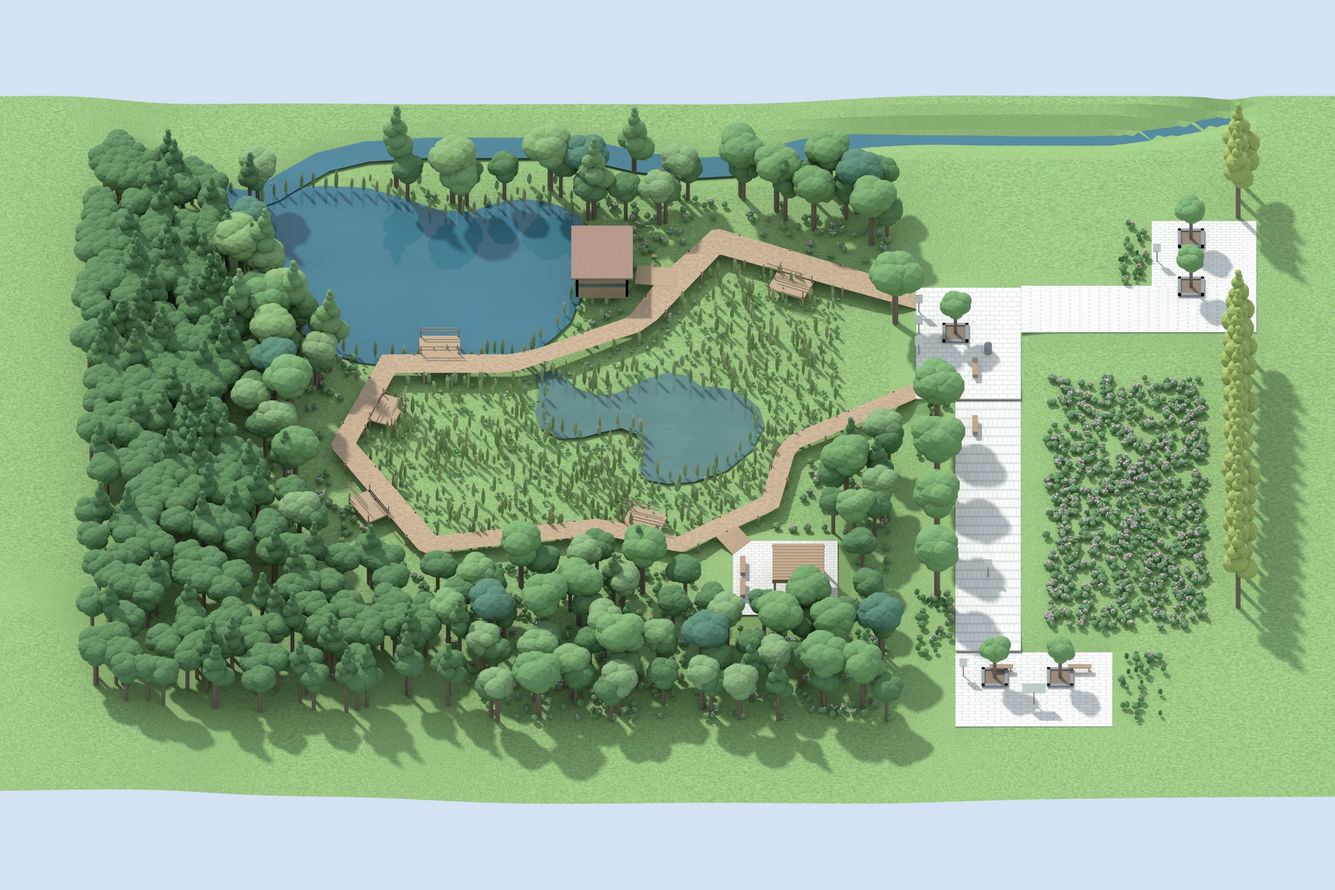
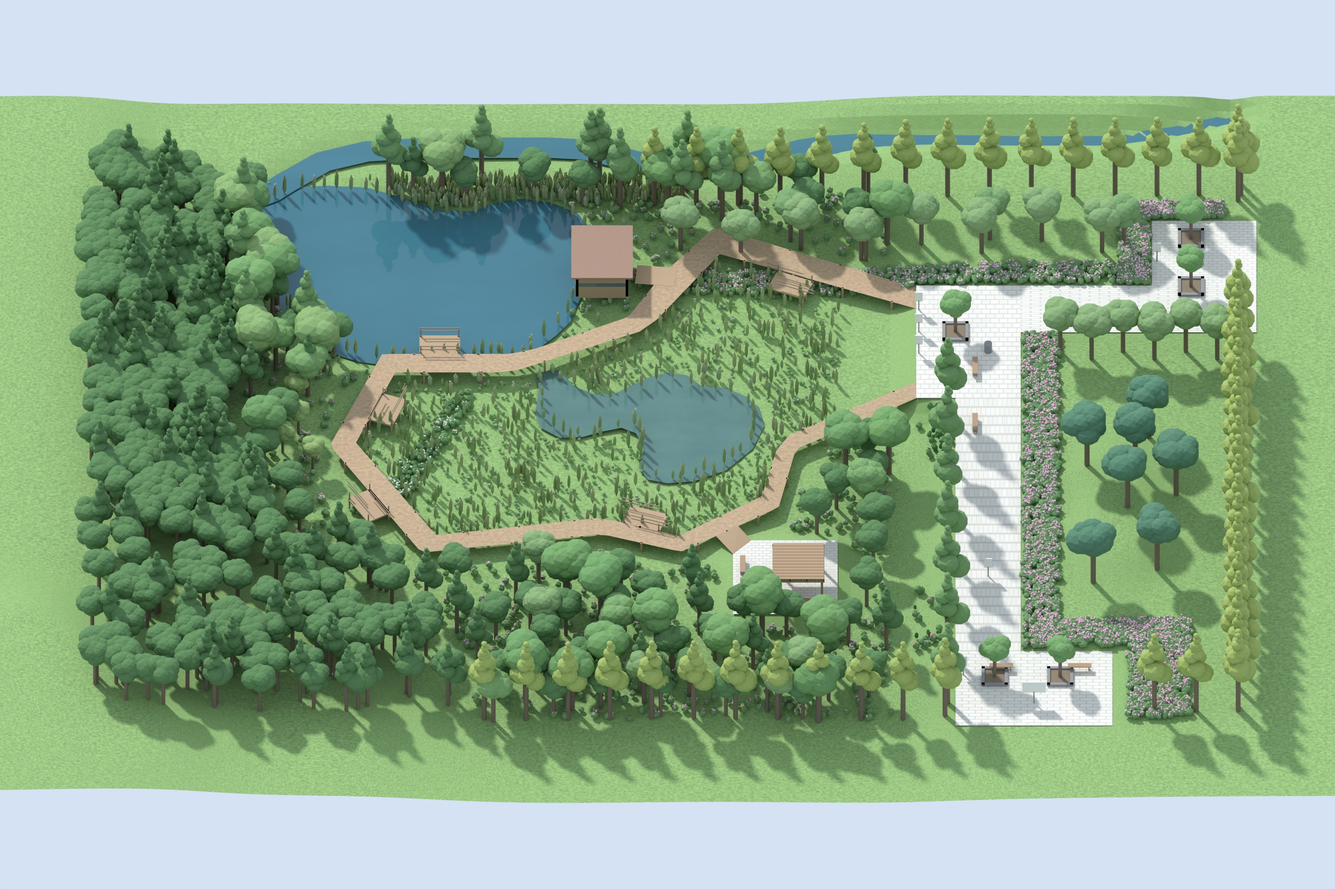
401 — 최고품질 렌더와 실사 6회차로 두 탭 갱신
배식설계도를 부지 좌표로 다시 읽어 식재를 고친 모형이다. 경계선을 화소로
재니 두 시트 모두 12.89 px/m 였고, 눈대중 축척으로는 남측을 58 m 로 읽고
있었다. 그 결과 잡은 것: 보행로 서쪽 열은 메타세쿼이아 7(느티나무가 아니다),
진달래 띠가 북동 진입광장 왼쪽 변→윗변을 두른다, 동측 띠가 남측 경계까지
내려온다, 찔레 140·생강나무 4.

- 입체평면도 0_axo 5120x3413→3072 · 0b_plan 3300x2200→2400 (수퍼샘플링)
- 조감도 0_real 실사 6회차 · 0b_model 블렌더 조감도
- 실사 5회차에 철새·버드나무·메타세쿼이아를 넣고, 6회차에 동측 잔디를
  열었다("정확히 열세 그루, 나머지는 잔디")

diff --git a/_ls_drawing_refs/401_입체평면도/content.md b/_ls_drawing_refs/401_입체평면도/content.md
@@ -261,9 +261,12 @@
 | 습지지구 | 버드나무 5 · 메타세쿼이아 12 · 산딸나무 5 · 생강나무 4 · 갯버들 120 · 철쭉 140 |
 | 수생구 | 부들 · 골풀 · 갈대 |
 
-- **은행나무 18** — 동측 도로변에 한 줄(완충식재, 주택가와 기능 분리)
-- **느티나무 7** — 주동선을 따라(유도식재)
-- **진달래 · 철쭉** — 마운딩 일대(경관식재)
+- **은행나무** — **북 · 동 · 남 세 면을 둘러** 완충식재(주택가·도로와 기능 분리).
+  수량표는 18주이나 도면의 열식을 그대로 따르면 그보다 많아 **52주**가 됩니다
+- **메타세쿼이아 12** — 보행로 서쪽에 한 줄로 **7주**(유도식재), 북측 실개천가에 **5주**
+- **느티나무 7** — 수목보호대 **5** + 산림지구 **2**
+- **진달래 · 철쭉** — 동측 화단 가장자리 띠, 두 진입광장을 두르는 띠(경관식재)
+- **찔레 140** — 관찰로 루프 안쪽 서편의 덤불 띠, **생강나무 4** — 기존수림 동쪽 가장자리
 - **부들 · 갈대 · 골풀** — 저수지 물가, **갯버들** — 습지 가장자리
 
 교목은 규격(H4.0 × R15 등)에 맞춰 크기와 잎색을 달리했습니다 — 은행나무는 밝은 황록,
@@ -320,3 +323,33 @@
 관목은 가까이 둡니다 — 키가 낮아 시야를 막지 않고, 오히려 길 가장자리에 있어야
 자연스럽습니다.
 
+## 배식설계도를 부지 좌표로 다시 읽었습니다
+
+도면을 눈대중 축척으로 읽다 **y 가 어긋나** 남측 경계를 58m 로 보고 있었습니다.
+경계선을 화소로 재니 두 시트가 모두 **12.89 px/m** 로 같았습니다.
+
+| | 기본설계도 | 배식설계도 |
+| --- | --- | --- |
+| 북 경계 | y 468.5 | y 279 |
+| 남 경계 | y 1242 | y 1052.5 |
+| 동 경계 | x 1560 | x 1698 |
+
+이 사상을 `read_401_drawing.py` 에 넣어 두어, 이제 **부지 좌표(m)로 바로** 잘라 봅니다.
+같은 축척으로 두 시트를 나란히 놓고 견주면 윤곽선이 서로 맞는지도 바로 드러납니다 —
+실제로 견줘 보니 광장 왼쪽 변 82 · 동측 경계 90 · 보행로 서측 73 이 두 도면에서 일치합니다.
+
+### 그렇게 해서 잡은 것 넷
+
+- **보행로 서쪽 열은 메타세쿼이아 7주**입니다. 느티나무 유도식재로 넣어 두었는데,
+  남측 라벨 「7 - 메타세쿼이아 H4.0 × B8」의 인출선이 이 열(x = 66.4)을 가리킵니다.
+  바로잡고 나니 수량이 맞습니다 — 메타세쿼이아 5 + 7 = 12, 느티나무 5 + 2 = 7
+- **진달래 띠가 북동 진입광장을 두릅니다.** 북측 길을 따라 오다 광장 **왼쪽 변**에서
+  북으로 꺾고, **윗변**을 따라 동으로 가다 은행나무 열 앞에서 멈춥니다. 그 뒤가 은행나무입니다.
+  여기를 회양목 30주로 성기게 두어 광장 둘레가 비어 보였습니다
+- **동측 띠는 남측 경계선까지 내려옵니다.** 남동 진입광장을 돌아 y 59.6 까지입니다
+- **찔레 140 · 생강나무 4** 를 인출선 자리대로 넣었습니다. 찔레는 루프 **안쪽** 서편의
+  북동–남서 덤불 띠입니다 — 물가가 아니라 안쪽 마른 가장자리입니다
+
+> 관목을 자리만 잡고 뿌리면 수량이 어긋납니다. 찔레를 띠에 그냥 뿌렸더니 **854주**가
+> 나왔습니다. 수량표 값에서 멈추게 하고, 흰 꽃 비율도 0.50 → 0.34 로 내렸습니다
+> (0.50 이면 눈 덮인 것처럼 보입니다).

diff --git a/_ls_drawing_refs/401_조감도/content.md b/_ls_drawing_refs/401_조감도/content.md
@@ -154,3 +154,30 @@
 
 모형 이야기는 '입체평면도' 탭에 적어 두었습니다.
 
+## 실사 6회차
+
+배식설계도를 부지 좌표로 다시 읽어 식재를 고친 모형으로 다시 뽑았습니다. 참고 그림은
+**늘 블렌더 조감도 원본**입니다 — 앞 회차 위에 덧그리면 회차마다 선명도가 깎입니다.
+
+회차마다 고친 것:
+
+| 회차 | 고친 것 |
+| --- | --- |
+| 1 | 첫 판 |
+| 2 | 루프 안에 나무가 자랐다 → "습지 안은 초본류만, 교목·관목 금지" |
+| 3 | 산림지구가 잔디로 나왔다 → 루프 바깥 전체를 수림으로 |
+| 4 | 수목이 관찰로·조류관찰소를 덮었다 → "나무는 데크에서 물러선다" |
+| 5 | **철새** · **버드나무 5** · **메타세쿼이아** 를 넣었다 |
+| 6 | 동측 잔디가 나무로 꽉 찼다 → "정확히 열세 그루, 나머지는 잔디" |
+
+- **철새** — 조류관찰소가 바라보는 저수지에 청둥오리 세 마리가 V자 물결을 남기며 헤엄치고
+  백로 한 마리가 수면 위를 낮게 납니다. 크기를 "사람 머리만 하다"로 못박아야 백조만 하게
+  그리지 않습니다
+- **수종은 실루엣이 다른 것만 이름을 적습니다.** 은행나무(좁고 곧은 황록) · 버드나무(늘어진
+  장막) · 메타세쿼이아(뾰족한 원뿔)는 이 높이에서도 구별됩니다. 갈참·졸참·상수리 세 참나무는
+  수관이 다 둥글어 이름을 적어도 소용없습니다 — 이름을 늘릴수록 모델이 배치를 흔듭니다
+- **빈 잔디는 모델이 못 견디고 채웁니다.** "열려 있어야 한다 · 정확히 N그루 · 세어라
+  하나, 둘, 셋…" 을 적어야 잡힙니다. 함께 철쭉 화단 설명을 "완만한 잔디 마운딩 위의 넓은
+  화단" → "포장 가장자리의 폭 3m 짜리 좁은 띠"로 고쳤습니다 — 앞의 표현이 "여기는 채워도
+  되는 넓은 땅"으로 읽힌 듯합니다
+
